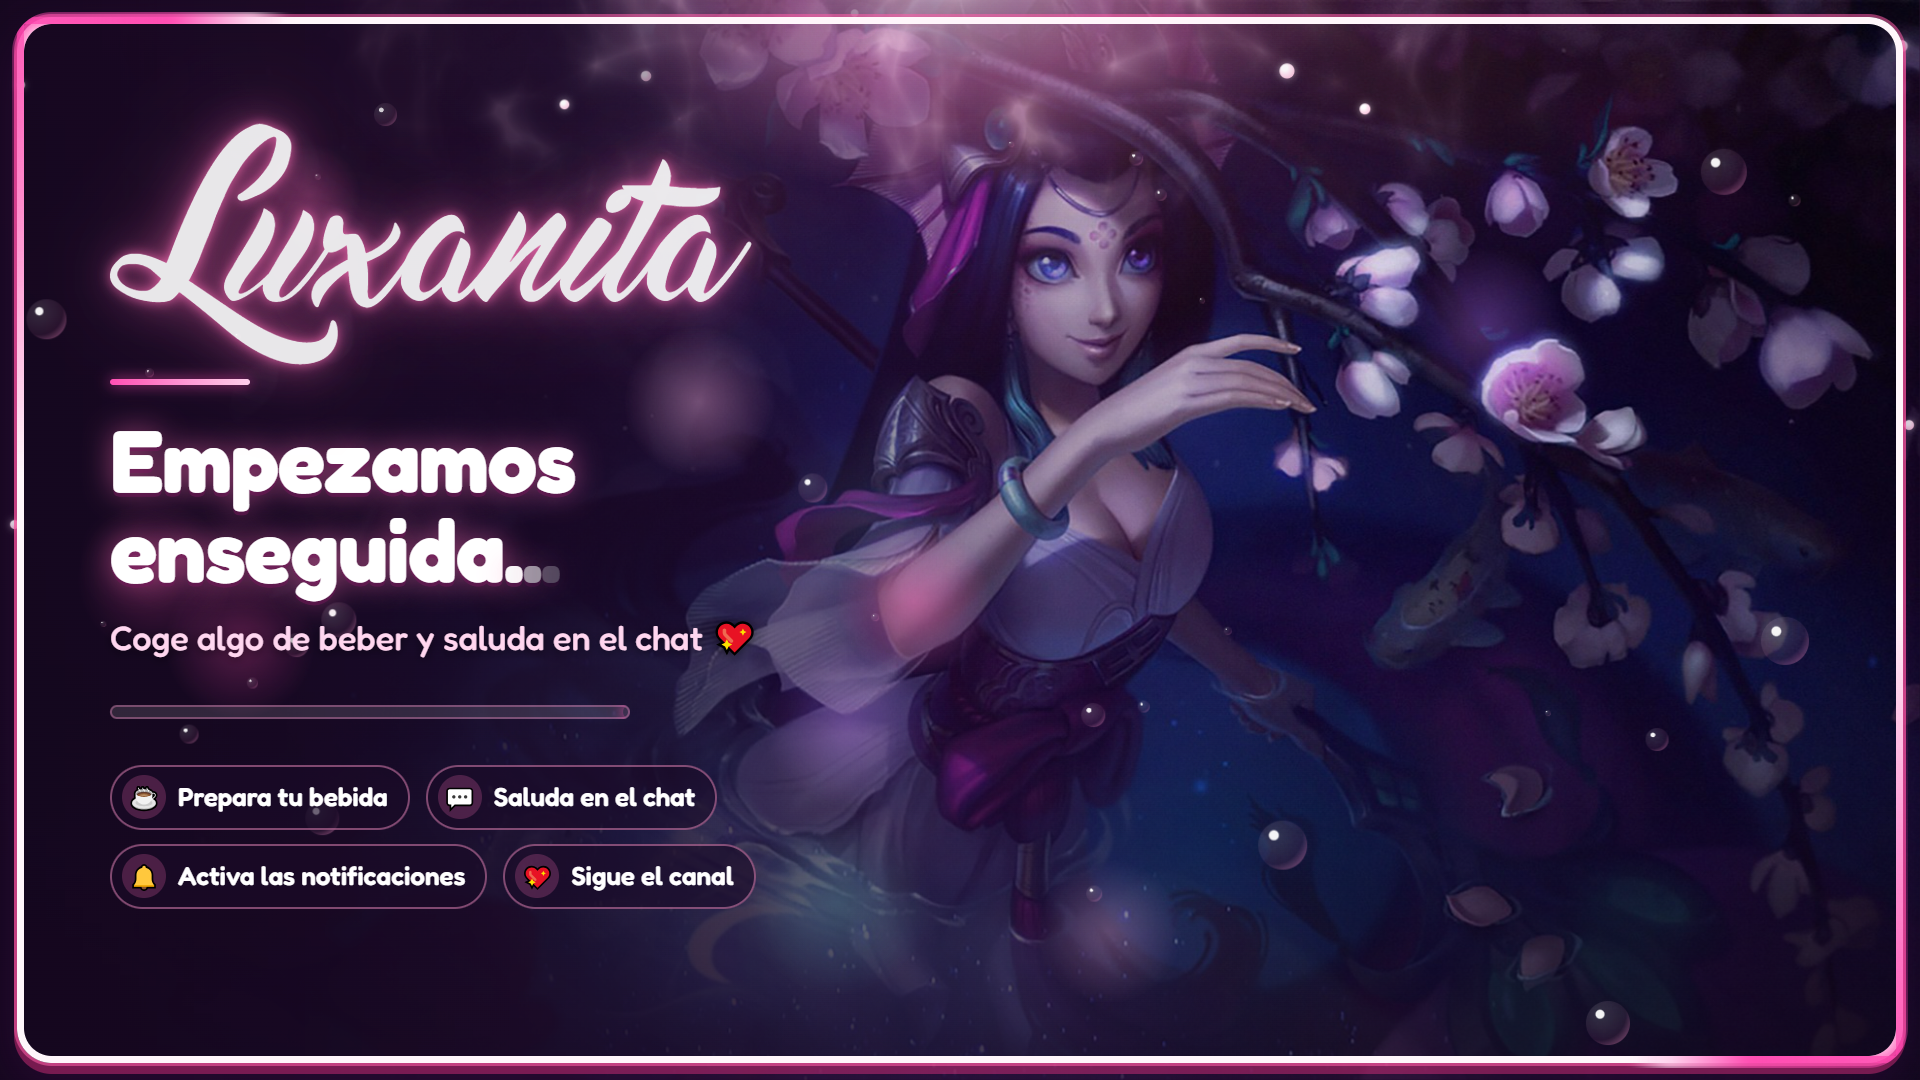
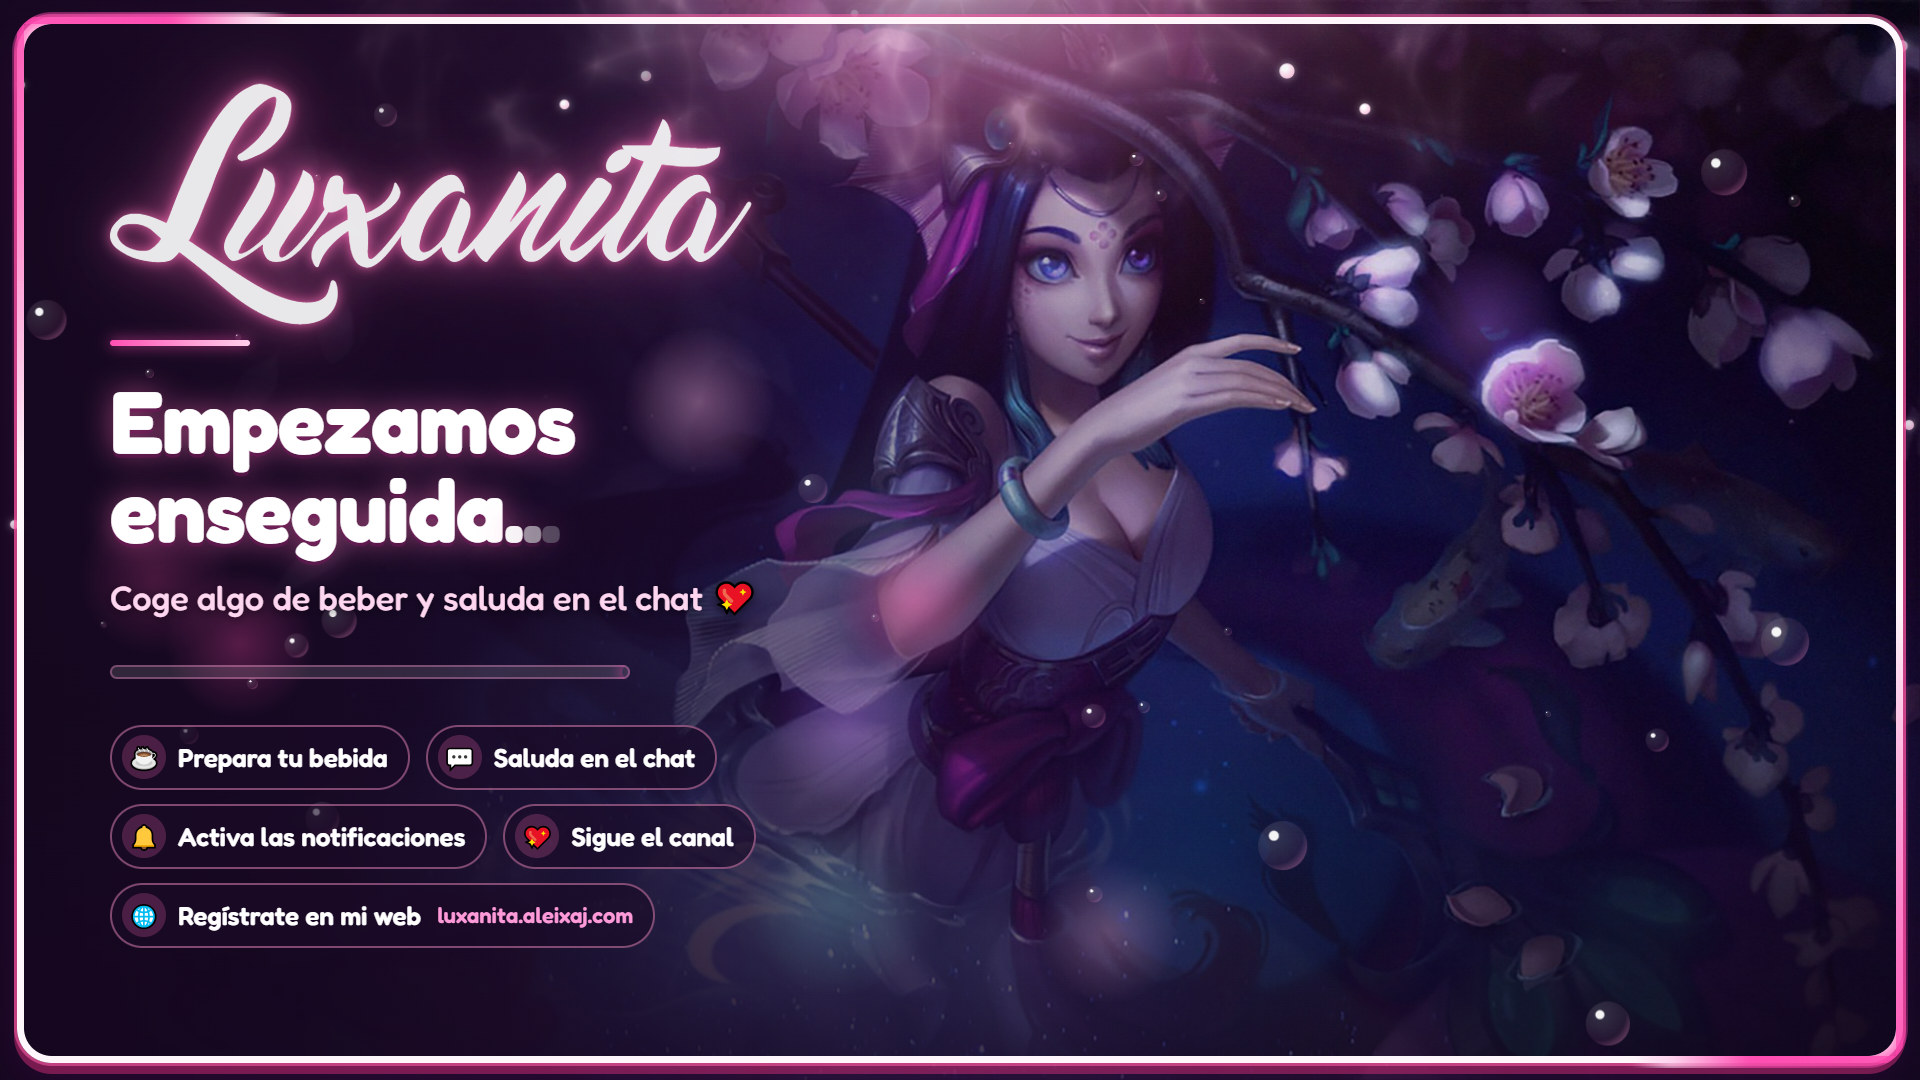
Overlay: «Regístrate en mi web» en empezando y final; fuera «Mira el horario»

Changed region(s): [[0.0312, 0.0611, 0.4062, 0.8861]]

diff --git a/overlay/empezando.html b/overlay/empezando.html
@@ -22,7 +22,8 @@
       mensaje: 'Empezamos enseguida', puntos: true,
       sub: 'Coge algo de beber y saluda en el chat 💖',
       carga: true, textoReloj: 'Empezamos en',
-      notas: [['☕', 'Prepara tu bebida'], ['💬', 'Saluda en el chat'], ['🔔', 'Activa las notificaciones'], ['💖', 'Sigue el canal']]
+      notas: [['☕', 'Prepara tu bebida'], ['💬', 'Saluda en el chat'], ['🔔', 'Activa las notificaciones'], ['💖', 'Sigue el canal'],
+              ['🌐', 'Regístrate en mi web <small>luxanita.aleixaj.com</small>']]
     }
   });
 </script>

diff --git a/overlay/final.html b/overlay/final.html
@@ -20,7 +20,8 @@
       arte: 'escenas/p-final.jpg',
       mensaje: '¡Gracias por venir!',
       sub: 'Nos vemos en el próximo directo 💖',
-      notas: [['🔔', 'Activa las notificaciones'], ['💖', 'Sigue el canal'], ['📅', 'Mira el horario'], ['✨', '¡Gracias por todo!']]
+      notas: [['🔔', 'Activa las notificaciones'], ['💖', 'Sigue el canal'],
+              ['🌐', 'Regístrate en mi web <small>luxanita.aleixaj.com</small>'], ['✨', '¡Gracias por todo!']]
     }
   });
 </script>

diff --git a/overlay/comun.css b/overlay/comun.css
@@ -741,6 +741,12 @@ html.preview.sin-fondo #stage { background: repeating-conic-gradient(#d9d3e3 0 2
   font-size: 26px;
   font-weight: 600;
 }
+.pantalla .nota small {
+  margin-left: 4px;
+  font-size: 22px;
+  font-weight: 600;
+  color: #ff9ad9;
+}
 .pantalla .nota b {
   display: grid;
   place-items: center;
